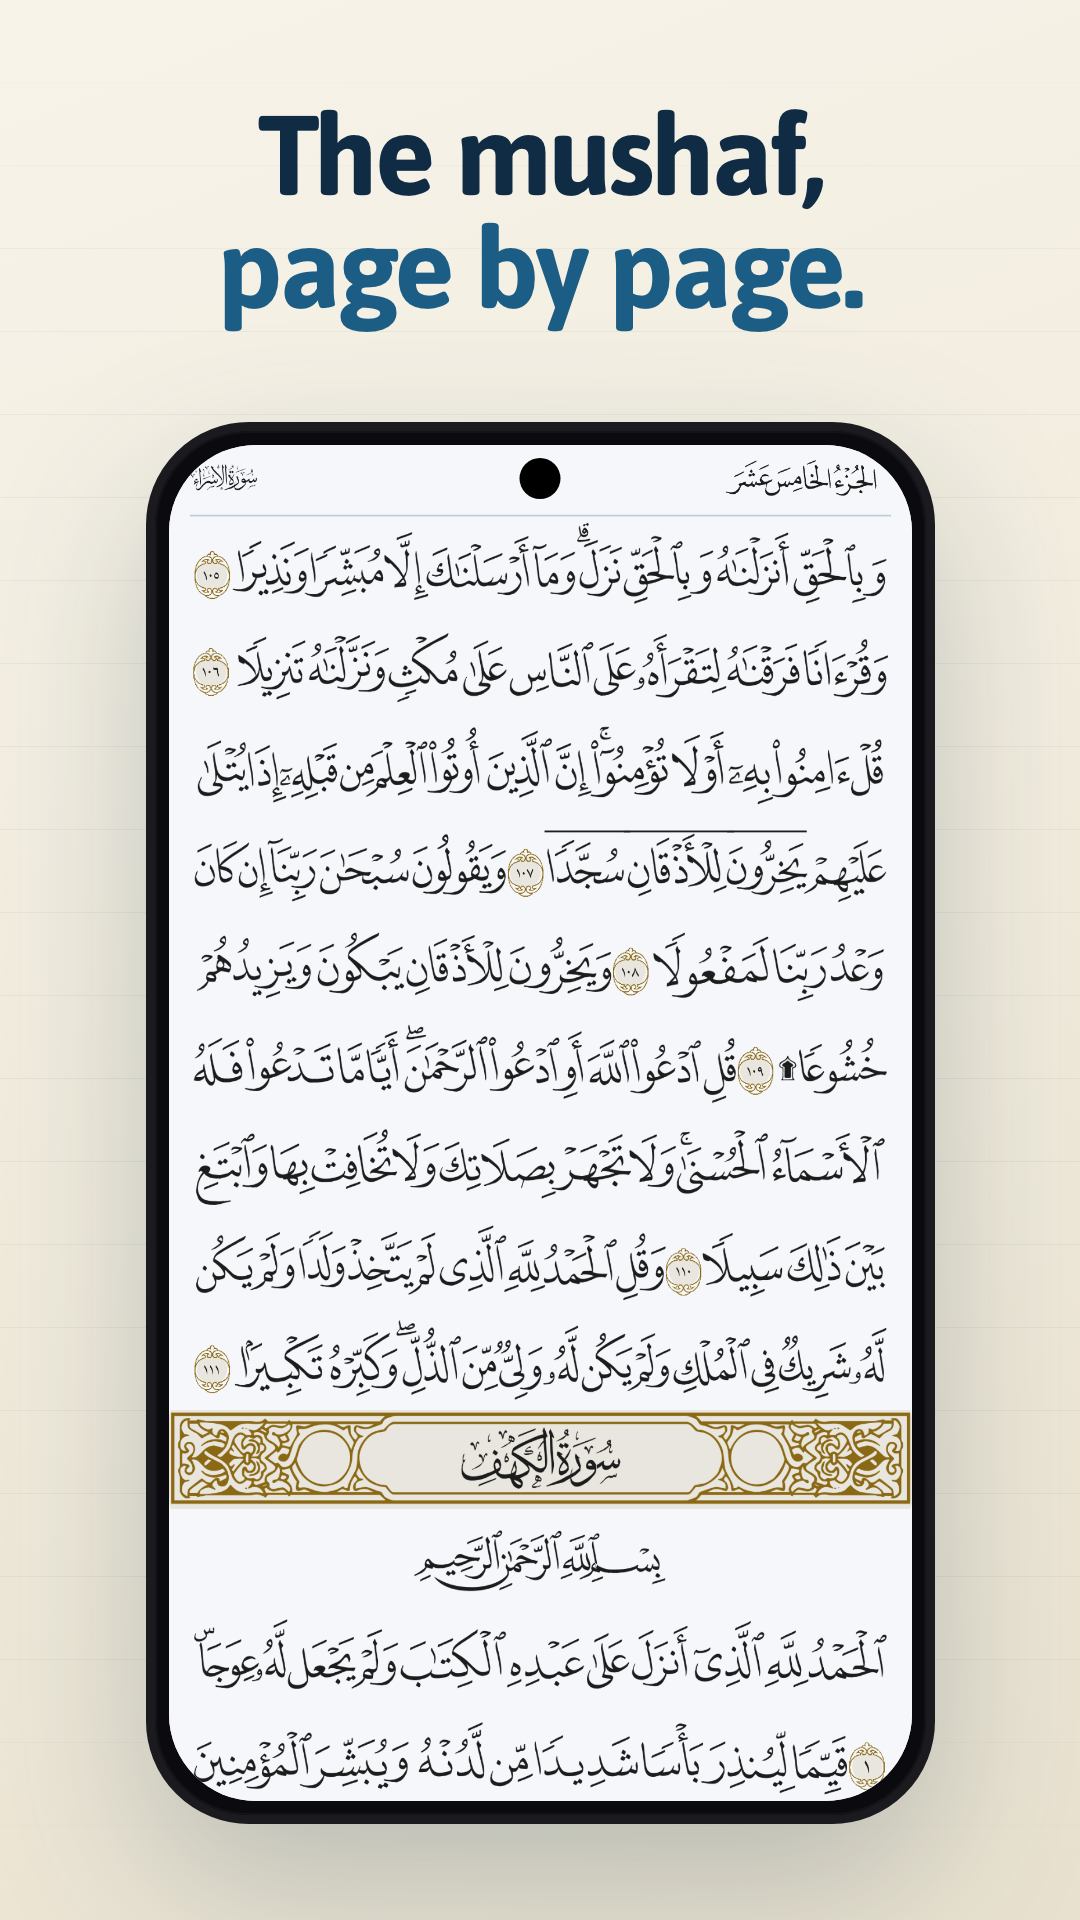
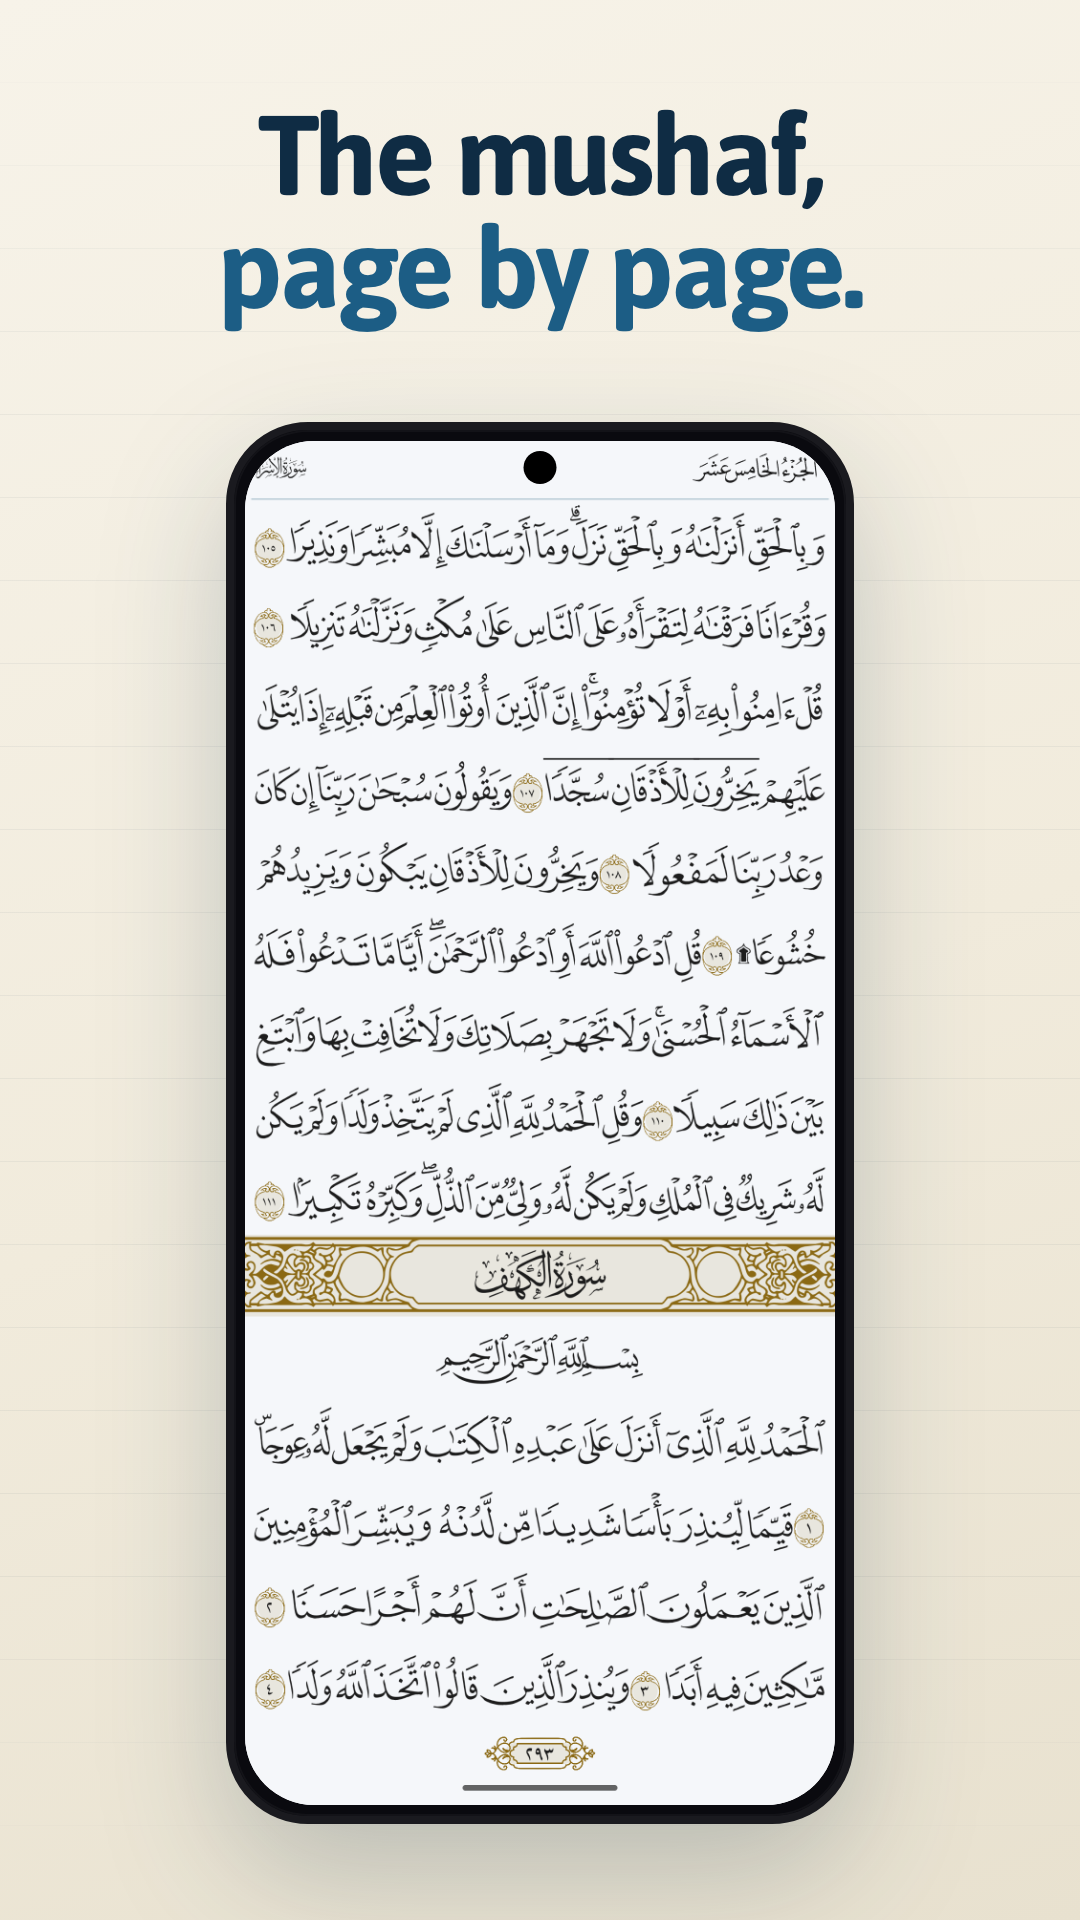
fix(screenshots): size the Android device mockup from the captured raw

Changed region(s): [[0.1222, 0.2188, 0.8861, 0.9688]]

diff --git a/scripts/screenshots/render-variant.ts b/scripts/screenshots/render-variant.ts
@@ -184,13 +184,23 @@ function escapeHtml(s: string): string {
   );
 }
 
+// A PNG's IHDR chunk holds the pixel dimensions at fixed offsets: the "IHDR"
+// tag at byte 12, then width at 16 and height at 20, both big-endian.
+const pngAspect = (png: Buffer): number => {
+  if (png.length < 24 || png.readUInt32BE(12) !== 0x49484452) {
+    throw new Error("Raw capture is not a PNG, so its aspect cannot be read.");
+  }
+  return png.readUInt32BE(20) / png.readUInt32BE(16);
+};
+
 function heroHtml(opts: {
   rawPngBase64: string;
+  rawAspect: number;
   copy: HeroCopy;
   device: DeviceSpec;
   locale: "en" | "ar";
 }): string {
-  const { copy, device, locale, rawPngBase64 } = opts;
+  const { copy, device, locale, rawPngBase64, rawAspect } = opts;
   const isAr = locale === "ar";
   const dir = isAr ? "rtl" : "ltr";
   const fontFamily = isAr ? "IBM Plex Sans Arabic" : "Asap";
@@ -199,10 +209,11 @@ function heroHtml(opts: {
   const line2Below = copy.line2Below === true;
   const W = device.width;
   const H = device.height;
-  // Match the mockup's silhouette to the real device instead of assuming a
-  // phone shape — an iPad screenshot squeezed into a 19.5:9 phone frame via
-  // object-fit: cover crops most of the screen away.
-  const ASPECT = device.height / device.width;
+  // Match the mockup's silhouette to the captured screenshot, not the store
+  // canvas. The two differ wherever the capture device is not the canvas shape,
+  // and object-fit: cover then crops the screen to fill a frame of the wrong
+  // proportions.
+  const ASPECT = rawAspect;
 
   // Responsive: a headline band is always kept; the phone is then made as large
   // as possible, bounded by EITHER a width cap OR the height left under the
@@ -877,6 +888,7 @@ export async function renderVariant(input: RenderInput): Promise<Buffer> {
     }
     html = heroHtml({
       rawPngBase64: input.rawPng.toString("base64"),
+      rawAspect: pngAspect(input.rawPng),
       copy,
       device: input.device,
       locale: input.locale,

diff --git a/scripts/screenshots/device-matrix.ts b/scripts/screenshots/device-matrix.ts
@@ -5,8 +5,6 @@ export type DeviceSpec = {
   width: number;
   height: number;
   framePath: string;
-  capturedRawWidth: number;
-  capturedRawHeight: number;
   supportsWidgets: boolean;
   // Which device-mockup chrome the hero compositor should draw around the
   // screenshot: Dynamic Island + iOS side buttons, Android punch-hole, or a
@@ -21,8 +19,6 @@ export const DEVICE_MATRIX: readonly DeviceSpec[] = [
     width: 1290,
     height: 2796,
     framePath: "frames/iphone-6.9.svg",
-    capturedRawWidth: 1290,
-    capturedRawHeight: 2796,
     supportsWidgets: true,
     chrome: "iphone",
   },
@@ -32,8 +28,6 @@ export const DEVICE_MATRIX: readonly DeviceSpec[] = [
     width: 1242,
     height: 2688,
     framePath: "frames/iphone-6.5.svg",
-    capturedRawWidth: 1242,
-    capturedRawHeight: 2688,
     supportsWidgets: true,
     chrome: "iphone",
   },
@@ -43,8 +37,6 @@ export const DEVICE_MATRIX: readonly DeviceSpec[] = [
     width: 2064,
     height: 2752,
     framePath: "frames/ipad-13.svg",
-    capturedRawWidth: 2064,
-    capturedRawHeight: 2752,
     supportsWidgets: false,
     chrome: "ipad",
   },
@@ -54,8 +46,6 @@ export const DEVICE_MATRIX: readonly DeviceSpec[] = [
     width: 1080,
     height: 1920,
     framePath: "frames/android-phone.svg",
-    capturedRawWidth: 1080,
-    capturedRawHeight: 1920,
     supportsWidgets: false,
     chrome: "android",
   },
